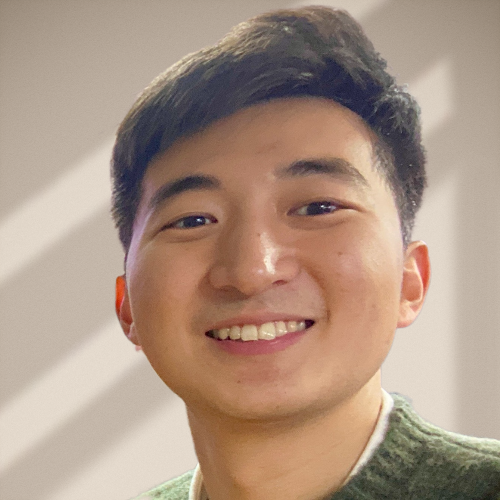
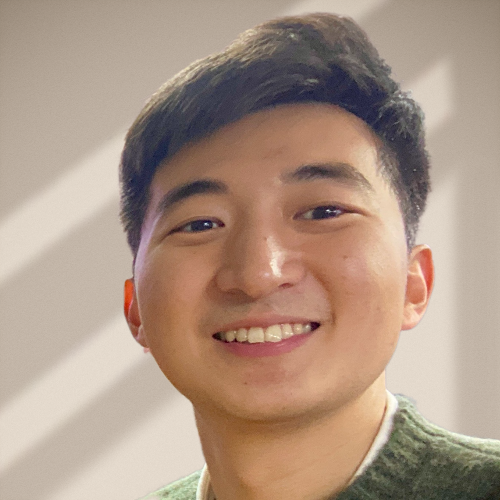
fix: replace me.png

diff --git a/index.html b/index.html
@@ -118,7 +118,7 @@
                           border-radius: 50%;
                         "
                         alt="profile photo"
-                        src="images/ME.png"
+                        src="images/me.png"
                         class="hoverZoomLink"
                     /></a>
                   </td>
